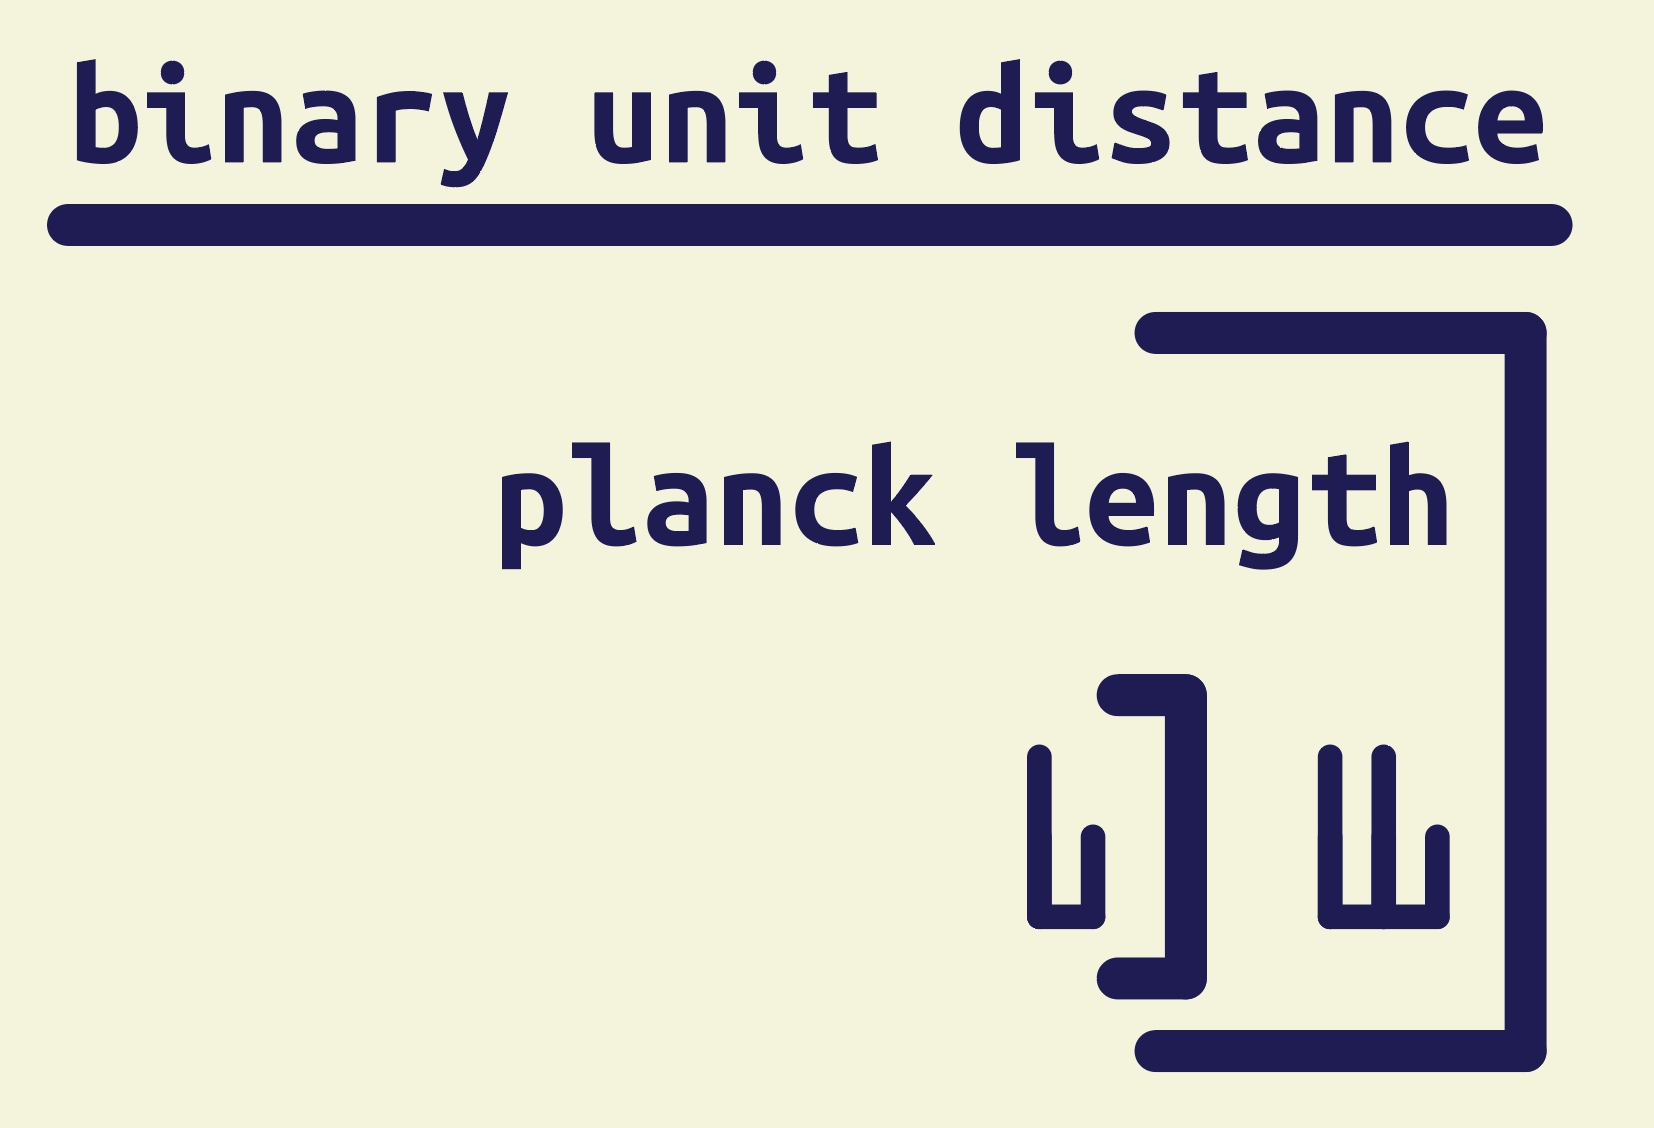
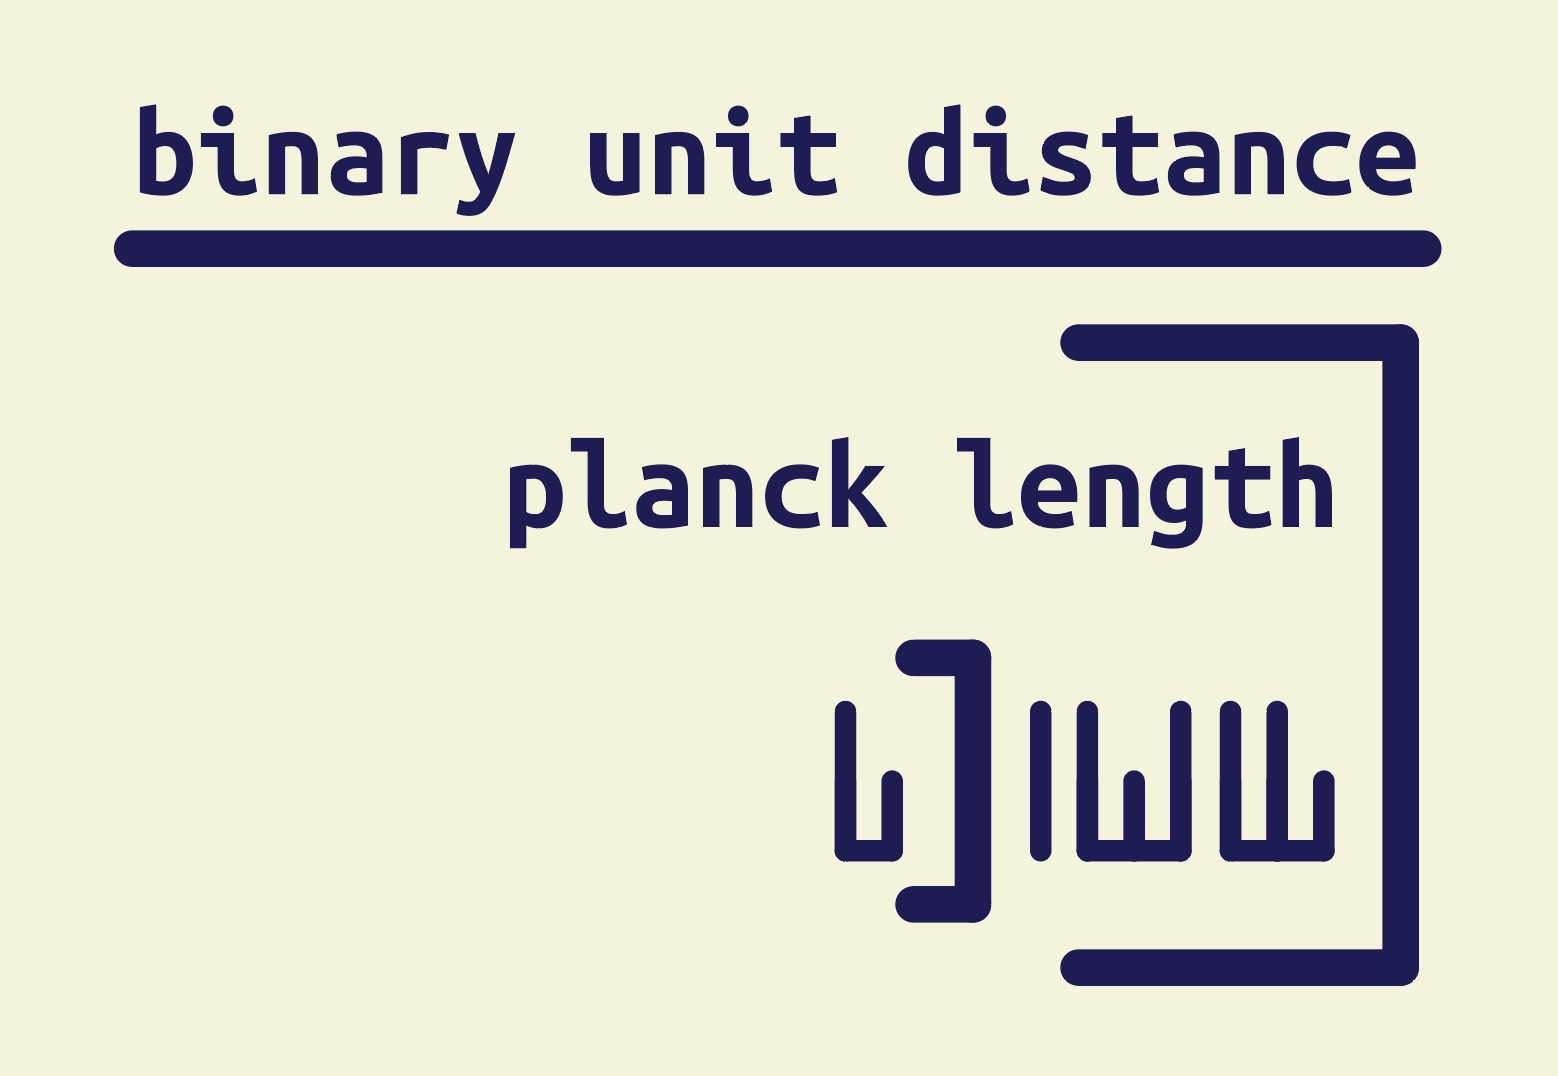
BINARY!

Changed region(s): [[0.5237, 0.276, 0.9551, 0.9507], [0.0308, 0.0307, 0.9551, 0.2454], [0.2773, 0.368, 0.5854, 0.5214]]

diff --git a/personalProjects/binaryUnitSystem.html b/personalProjects/binaryUnitSystem.html
@@ -38,7 +38,6 @@
 </div>
 
 <h2>length:</h2>
-<p>1d = 2<sup>-34</sup><i>t</i> • c </p>
 <div style="text-align: center;">
   <img src="d.png" alt="[IMAGE] a comparison between an inch, a centi-meter, and a d" style="width:50%;">
 </div>
@@ -47,10 +46,15 @@
 <div style="text-align: center;">
   <img src="hd.png" alt="[IMAGE] a comparison between a foot, a meter, and a hd" style="width:50%;">
 </div>
-
+<br/>
 <p>1zd = 2<sup>16</sup>d</p>
 <div style="text-align: center;">
   <img src="zd.png" alt="[IMAGE] a comparison between a mile, a kilo-meter, and a zd" style="width:50%;">
+</div>
+
+<div>
+  <img src="planckLength.png" alt="[IMAGE] the definition of planck length" style="width:30%;">
+  <img src="binaryUnitDistance.png" alt="[IMAGE] the definition of the B.U.S distance in terms of planck length" style="width:30%;">
 </div>
 
 </body>
